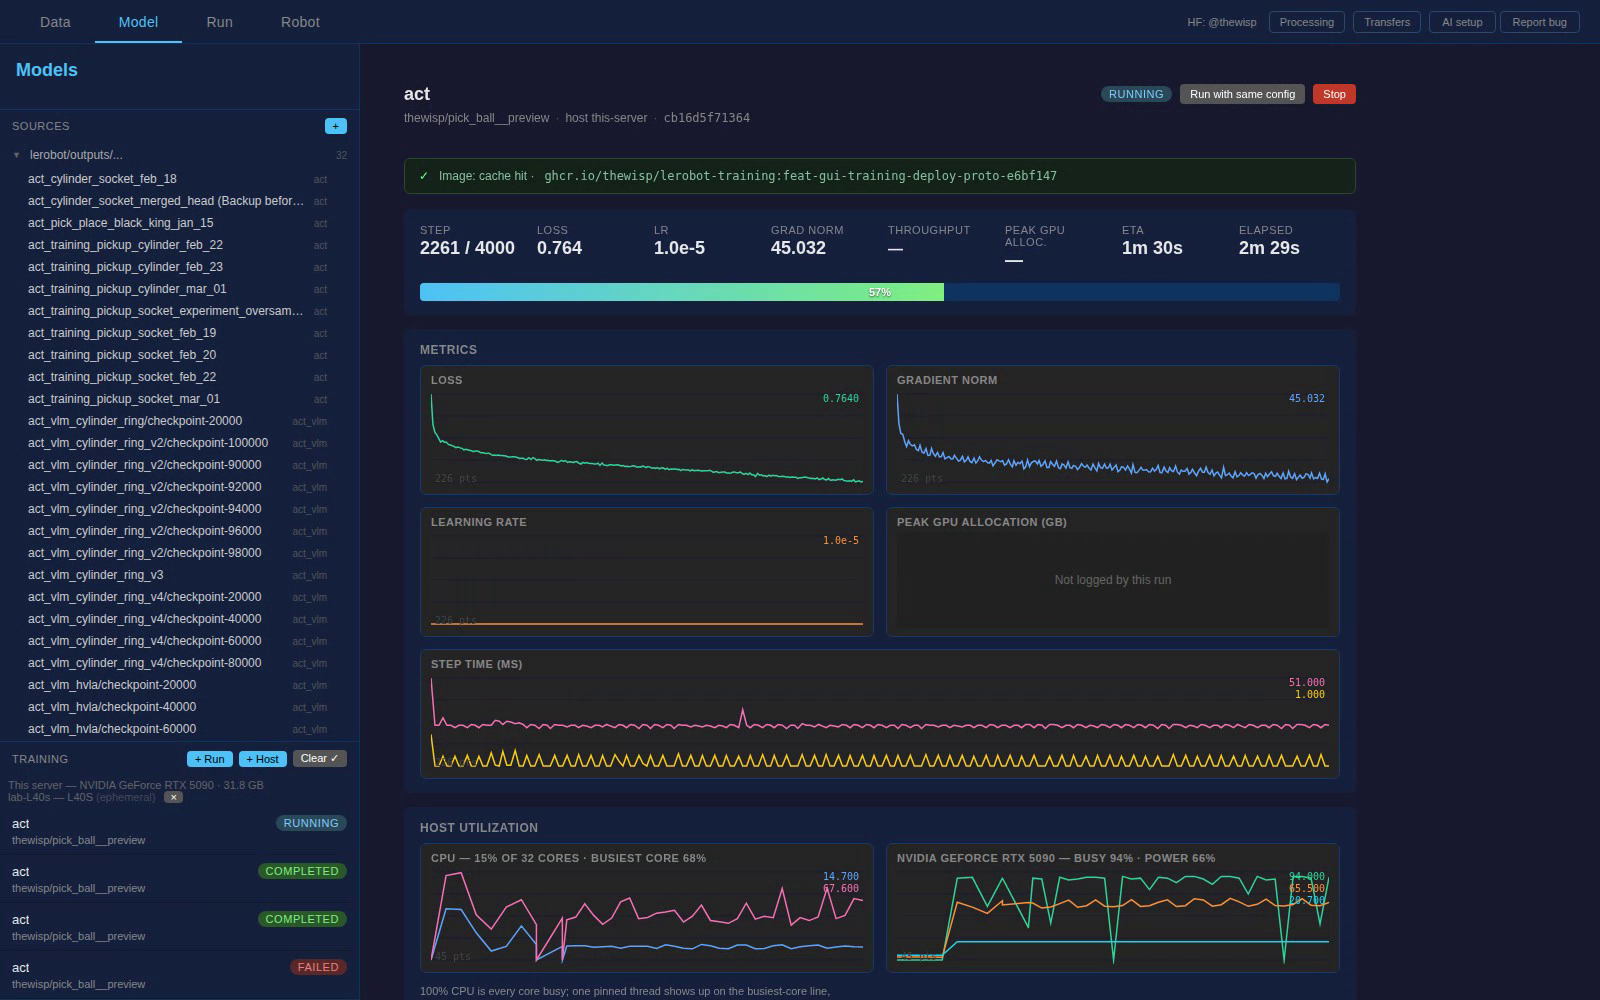
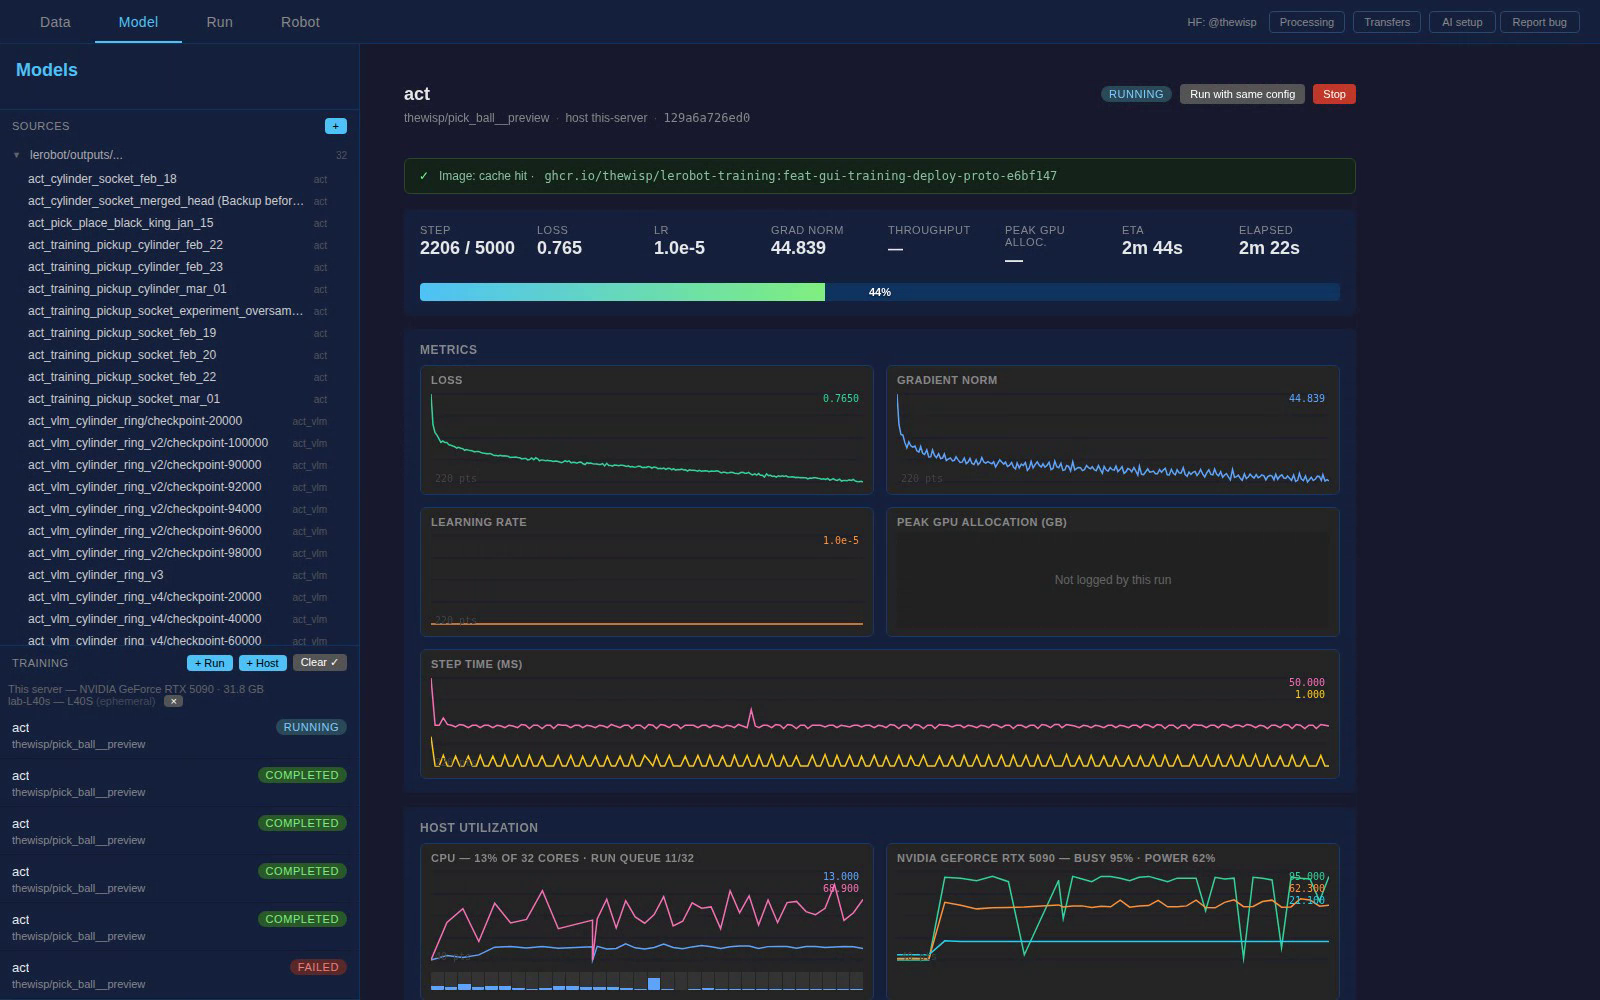
fix(gui): report host utilization as the host's, and show CPU the way CPU tools do
Review caught the claim this feature could not support: nothing in it knows
whether the hot core belongs to the training run. `/proc/stat` and `nvidia-smi`
both report the whole machine, so a compile, a browser, or a second job counts
toward every figure here. The caption nonetheless said "one pinned dataloader
thread shows up on the busiest-core line", which asserts an attribution the
measurement cannot make.

Three changes, one of them structural.

**Say whose numbers these are.** The card now leads with "whole machine, not
this run", and notes that on a dedicated box the distinction is empty while on
a shared one these are an upper bound. The module docstring records what real
attribution would cost: reading the training container's own cgroup `cpu.stat`,
which needs a container id the recipe does not currently produce — it passes
neither `--name` nor `--cidfile` — and a cgroup path that differs between
docker's cgroupfs and systemd drivers. Worth doing; not done here, and now
written down rather than implied away.

**Show every core, not the hottest one.** A single "busiest core" figure is a
shape no CPU tool uses: htop draws a bar per core, top splits an aggregate by
mode, mpstat prints a per-core table, and W&B logs `cpu` alongside
`cpu.N.cpu_percent`. Summarising 32 cores into their maximum is what invited
reading that maximum as this run's thread. The strip under the chart is one
slot per core, filled to its utilization — a pinned thread is still obvious as
[…]

diff --git a/src/lerobot/gui/static/training.js b/src/lerobot/gui/static/training.js
@@ -981,12 +981,42 @@ function trainingResourcesCardHtml(resources, isActive) {
   const hotNow = trainingLatestResource(resources, "busiest_core_pct");
   const gpus = trainingGpuIndices(resources);
 
+  // The most recent row that actually carries a CPU reading, not simply the
+  // most recent row: a sample taken too soon after the last one reports no CPU
+  // by design, and reading it blindly made the bars vanish for a poll.
+  const withCores =
+    [...resources].reverse().find((row) => (row.per_core_pct || []).length) || {};
+  const perCore = withCores.per_core_pct || [];
+  const runnable = Number((resources[resources.length - 1] || {}).runnable);
+  // One bar per core, the way htop, mpstat and top all show this. A single
+  // "busiest core" number was the wrong shape: it invites reading the hot core
+  // as *this run's* thread, which a host-wide sample cannot establish. The
+  // distribution makes the same bottleneck visible without the claim -- one
+  // tall bar among short ones is a pinned thread, whoever owns it.
+  const coreBars = perCore.length
+    ? `<div class="training-core-strip" title="One bar per core, over the last sample. Machine-wide: any process counts.">
+         ${perCore
+           .map(
+             (pct) =>
+               `<i style="--fill:${Math.round(pct)}%" title="core ${Math.round(pct)}%"></i>`,
+           )
+           .join("")}
+       </div>`
+    : "";
+  // Saturation, not utilization: how many tasks want a CPU right now. Over the
+  // core count means work is queued behind a busy CPU. `procs_running` rather
+  // than load average, which folds in uninterruptible I/O waiters -- the reason
+  // the USE checklist excludes it for CPU.
+  const queue = Number.isFinite(runnable)
+    ? `<span class="training-muted" title="Runnable tasks (vmstat 'r'). Above the core count means tasks are queued for a CPU — the saturation signal, as opposed to how busy the cores have been.">· run queue ${runnable}/${cores || "?"}</span>`
+    : "";
+
   const cpuCard = `<div class="training-chart">
       <div class="training-chart-title">
-        CPU — ${trainingPctText(cpuNow)} of ${cores || "?"} cores
-        <span class="training-muted" title="One pinned dataloader thread reads near 100% here while the all-core average stays low.">· busiest core ${trainingPctText(hotNow)}</span>
+        CPU — ${trainingPctText(cpuNow)} of ${cores || "?"} cores ${queue}
       </div>
       <canvas id="training-res-cpu" class="training-chart-canvas"></canvas>
+      ${coreBars}
     </div>`;
 
   const gpuCards = gpus.map((index) => {
@@ -1006,11 +1036,16 @@ function trainingResourcesCardHtml(resources, isActive) {
       <h3 class="training-card-heading">Host utilization</h3>
       <div class="training-charts">${cpuCard}${gpuCards.join("")}</div>
       <div class="training-resource-note">
-        100% CPU is every core busy; one pinned thread shows up on the busiest-core line, not the average.
-        GPU <strong>busy</strong> is the share of the sample period with a kernel resident — a kernel occupying
-        one multiprocessor still reads 100%, and it drops to 0 whenever a sample lands between kernels, so
-        it is spiky even mid-training. <strong>Power</strong> against the board limit is the steadier read on
-        whether the card is actually working hard.
+        <strong>Whole machine, not this run.</strong> Every figure here is the host's, so anything else running
+        counts too. On a box dedicated to training they are the same number; on a shared one, read them as an
+        upper bound.
+        100% CPU is every core busy. The bars are one core each: one tall bar among short ones is a
+        single-threaded bottleneck — a pinned dataloader looks like that, and so does anything else pinning a
+        core. The run queue is the saturation figure; above the core count, tasks are waiting for a CPU.
+        GPU <strong>busy</strong> is the share of the sample period with a kernel resident: a kernel occupying
+        one multiprocessor still reads 100%, and it drops to 0 whenever a sample lands between kernels, so it
+        is spiky even mid-training. <strong>Power</strong> against the board limit is the steadier read on
+        whether the card is working hard.
       </div>
     </section>`;
 }

diff --git a/src/lerobot/gui/static/style.css b/src/lerobot/gui/static/style.css
@@ -2272,3 +2272,26 @@ body.ovl-click-armed .obs-cam-grid > div { box-shadow: inset 0 0 0 1px rgba(79, 
     color: var(--text-tertiary, #8a8a8a);
     max-width: 70ch;
 }
+
+/* Per-core utilization, htop's idiom: one bar per core, tallest = busiest.
+   Shows the distribution rather than a summary of it, so a single pinned core
+   is visible without asserting whose thread is on it. */
+.training-core-strip {
+    display: flex;
+    align-items: flex-end;
+    gap: 1px;
+    height: 22px;
+    margin-top: 6px;
+    padding: 2px 0;
+}
+/* Each core gets a visible slot, so an idle core reads as "a core, idle"
+   rather than as absent — the same reason htop brackets every core. */
+.training-core-strip i {
+    flex: 1 1 auto;
+    min-width: 2px;
+    align-self: stretch;
+    background:
+        linear-gradient(to top, #60a5fa var(--fill, 0%), #f472b6 var(--fill, 0%),
+                        rgba(255, 255, 255, 0.07) var(--fill, 0%));
+    border-radius: 1px;
+}

diff --git a/src/lerobot/gui/static/index.html b/src/lerobot/gui/static/index.html
@@ -5,7 +5,7 @@
     <meta name="viewport" content="width=device-width, initial-scale=1.0">
     <title>LeRobot GUI</title>
     <script>document.title = `LeRobot GUI [${window.location.host}]`;</script>
-    <link rel="stylesheet" href="/static/style.css?v=78">
+    <link rel="stylesheet" href="/static/style.css?v=80">
 </head>
 <body>
     <div class="tab-bar">
@@ -713,7 +713,7 @@ nebius iam auth-public-key generate \
     <script src="/static/overlays.js?v=74"></script>
     <script src="/static/model.js?v=9"></script>
     <script src="/static/training_image_identity.js?v=1"></script>
-    <script src="/static/training.js?v=38"></script>
+    <script src="/static/training.js?v=41"></script>
     <script src="/static/add_host_dialog.js?v=4"></script>
     <script src="/static/bug_report.js?v=1"></script>
     <script src="/static/bridge.js?v=1"></script>

diff --git a/src/lerobot/gui/training/resources.py b/src/lerobot/gui/training/resources.py
@@ -29,12 +29,25 @@ since boot; a single read says how busy the machine has been *since it booted*,
 which is never what anyone wants. Utilization only exists between two reads, so
 :func:`cpu_percent_between` takes both and the caller keeps the previous one.
 
+**Everything here is the host's, not the run's.** ``/proc/stat`` and
+``nvidia-smi`` both report the whole machine, so a second training job, a
+compile, or a browser counts toward these numbers. On a dedicated training box
+that distinction is empty; on a shared one these are an upper bound on what the
+run is using, and nothing here can tell the difference.
+
+Attributing CPU to the run itself would mean reading the training container's
+own cgroup (``cpu.stat``), which needs the container id — the recipe does not
+name the container or write a cidfile today — and a cgroup path that differs
+between docker's cgroupfs and systemd drivers. Worth doing; not done here, and
+the UI says so rather than implying an attribution it cannot make.
+
 **CPU is reported twice, and the second number is the useful one.** The
 aggregate is normalized across cores — 100% means every core is busy, which is
-what "saturated" has to mean when there are 32 of them. But the classic training
-bottleneck is a single-threaded dataloader pinning one core while the rest idle,
-and on a 32-core box that reads as 3% aggregate: indistinguishable from an idle
-machine. ``busiest_core_pct`` is what makes that visible.
+what "saturated" has to mean when there are 32 of them. But a single-threaded
+bottleneck — the classic being a dataloader pinning one core while the rest
+idle — reads as 3% aggregate on a 32-core box, indistinguishable from an idle
+machine. ``busiest_core_pct`` is what makes *some* thread being pinned visible.
+Which thread it is, this cannot say.
 
 **GPU "busy" is not GPU "saturated", and this module does not pretend
 otherwise.** NVML defines ``utilization.gpu`` as the percent of time in the
@@ -127,6 +140,10 @@ class CpuTotals:
     total: tuple[int, int]  # (busy, total) jiffies
     per_core: tuple[tuple[int, int], ...]
     ts: float = 0.0
+    # Runnable tasks at the instant of the read (``procs_running``). This is
+    # vmstat's ``r`` — the saturation half of the USE method, and not a delta:
+    # it is a queue depth, meaningful from a single reading.
+    runnable: int = 0
 
 
 @dataclass(frozen=True)
@@ -142,6 +159,14 @@ class ResourceSample:
     cpu_pct: float | None
     busiest_core_pct: float | None
     cpu_cores: int
+    # Every core's utilization over the interval, in core order. The whole
+    # distribution rather than a summary of it: one bar per core is how htop,
+    # mpstat and every other tool shows this, and it is the only form that
+    # cannot be misread as a claim about *which* thread is hot.
+    per_core_pct: list[float] = field(default_factory=list)
+    # Runnable tasks vs cores. Over 1.0 means work is queued for a CPU that is
+    # not free — CPU saturation proper, as distinct from utilization.
+    runnable: int = 0
     gpus: list[GpuSample] = field(default_factory=list)
 
     def to_row(self) -> dict:
@@ -152,6 +177,8 @@ class ResourceSample:
             "cpu_pct": None if self.cpu_pct is None else round(self.cpu_pct, 1),
             "busiest_core_pct": (None if self.busiest_core_pct is None else round(self.busiest_core_pct, 1)),
             "cpu_cores": self.cpu_cores,
+            "per_core_pct": [round(v, 1) for v in self.per_core_pct],
+            "runnable": self.runnable,
             "gpus": [
                 {
                     **{k: v for k, v in asdict(g).items() if k != "name"},
@@ -178,7 +205,18 @@ def parse_proc_stat(text: str, *, ts: float = 0.0) -> CpuTotals | None:
     """
     total: tuple[int, int] | None = None
     cores: list[tuple[int, tuple[int, int]]] = []
+    runnable = 0
     for line in text.splitlines():
+        # The same file carries the run queue: `procs_running` is vmstat's `r`,
+        # which is the CPU *saturation* metric — how many tasks want a CPU right
+        # now, as opposed to how busy the CPUs have been. Not `/proc/loadavg`:
+        # Linux load averages fold in uninterruptible I/O waiters, which is why
+        # the USE checklist excludes them for CPU.
+        if line.startswith("procs_running"):
+            parts = line.split()
+            if len(parts) >= 2 and parts[1].isdigit():
+                runnable = int(parts[1])
+            continue
         if not line.startswith("cpu"):
             continue
         parts = line.split()
@@ -200,7 +238,7 @@ def parse_proc_stat(text: str, *, ts: float = 0.0) -> CpuTotals | None:
     if total is None or total[1] <= 0:
         return None
     cores.sort()
-    return CpuTotals(total=total, per_core=tuple(p for _, p in cores), ts=ts)
+    return CpuTotals(total=total, per_core=tuple(p for _, p in cores), ts=ts, runnable=runnable)
 
 
 def _delta_percent(before: tuple[int, int], after: tuple[int, int]) -> float | None:
@@ -217,8 +255,10 @@ def _delta_percent(before: tuple[int, int], after: tuple[int, int]) -> float | N
     return max(0.0, min(100.0, 100.0 * busy / total))
 
 
-def cpu_percent_between(before: CpuTotals, after: CpuTotals) -> tuple[float | None, float | None]:
-    """``(aggregate_pct, busiest_core_pct)`` over the interval between reads.
+def cpu_percent_between(
+    before: CpuTotals, after: CpuTotals
+) -> tuple[float | None, float | None, list[float]]:
+    """``(aggregate_pct, busiest_core_pct, per_core_pct)`` over the interval.
 
     Pre: both readings come from the same machine, ``after`` taken later.
     Post: each value is either None (no interval elapsed) or in [0, 100].
@@ -234,7 +274,7 @@ def cpu_percent_between(before: CpuTotals, after: CpuTotals) -> tuple[float | No
         for b, a in zip(before.per_core, after.per_core, strict=False)
         if (pct := _delta_percent(b, a)) is not None
     ]
-    return aggregate, (max(per_core) if per_core else None)
+    return aggregate, (max(per_core) if per_core else None), per_core
 
 
 def parse_nvidia_smi_csv(text: str) -> list[GpuSample]:
@@ -329,12 +369,13 @@ def sample_from_probe(
     totals = parse_proc_stat(stat_text, ts=now)
     cpu_pct: float | None = None
     busiest: float | None = None
+    per_core: list[float] = []
     if previous is not None and totals is not None:
         # Too short an interval is worse than no reading: it is a reading that
         # looks real. Keep the older baseline so the next poll measures from a
         # sensible distance rather than restarting the clock each time.
         if now - previous.ts >= MIN_SAMPLE_INTERVAL_S:
-            cpu_pct, busiest = cpu_percent_between(previous, totals)
+            cpu_pct, busiest, per_core = cpu_percent_between(previous, totals)
         else:
             totals = previous
     return (
@@ -343,6 +384,8 @@ def sample_from_probe(
             cpu_pct=cpu_pct,
             busiest_core_pct=busiest,
             cpu_cores=len(totals.per_core) if totals else 0,
+            per_core_pct=per_core,
+            runnable=totals.runnable if totals else 0,
             gpus=parse_nvidia_smi_csv(gpu_text),
         ),
         totals,

diff --git a/tests/gui/training/test_resources.py b/tests/gui/training/test_resources.py
@@ -53,14 +53,14 @@ class TestCpuIsADeltaNotAnInstant:
         before = parse_proc_stat(_stat((100, 0, 100), [(100, 0, 100)]))
         # 75 busy jiffies out of 100 elapsed.
         after = parse_proc_stat(_stat((175, 0, 125), [(175, 0, 125)]))
-        aggregate, _ = cpu_percent_between(before, after)
+        aggregate, _, _ = cpu_percent_between(before, after)
         assert aggregate == 75.0
 
     def test_counters_that_did_not_advance_report_nothing_rather_than_idle(self):
         """Two identical reads mean no interval was observed. Reporting 0% would
         claim the machine was idle when in fact nothing was measured."""
         same = parse_proc_stat(_stat((100, 0, 100), [(100, 0, 100)]))
-        aggregate, busiest = cpu_percent_between(same, same)
+        aggregate, busiest, _ = cpu_percent_between(same, same)
         assert aggregate is None
         assert busiest is None
 
@@ -71,7 +71,7 @@ class TestCpuIsADeltaNotAnInstant:
         before = parse_proc_stat("cpu  100 0 0 100 0 0 0 0 0 0\ncpu0 100 0 0 100 0 0 0 0 0 0\n")
         # 100 jiffies elapsed, all of them in iowait.
         after = parse_proc_stat("cpu  100 0 0 100 100 0 0 0 0 0\ncpu0 100 0 0 100 100 0 0 0 0\n")
-        aggregate, _ = cpu_percent_between(before, after)
+        aggregate, _, _ = cpu_percent_between(before, after)
         assert aggregate == 0.0
 
 
@@ -87,7 +87,7 @@ class TestOnePinnedCoreIsVisible:
         after_cores[7] = (100, 0, 100)
         after = parse_proc_stat(_stat((100, 0, 6300), after_cores))
 
-        aggregate, busiest = cpu_percent_between(before, after)
+        aggregate, busiest, _ = cpu_percent_between(before, after)
 
         assert aggregate is not None and aggregate < 5, "one of 32 cores is a small average"
         assert busiest == 100.0, "the busiest-core line is what makes the bottleneck visible"
@@ -95,7 +95,7 @@ class TestOnePinnedCoreIsVisible:
     def test_a_genuinely_saturated_machine_reads_100(self):
         before = parse_proc_stat(_stat((0, 0, 400), [(0, 0, 100)] * 4))
         after = parse_proc_stat(_stat((400, 0, 400), [(100, 0, 100)] * 4))
-        aggregate, busiest = cpu_percent_between(before, after)
+        aggregate, busiest, _ = cpu_percent_between(before, after)
         assert aggregate == 100.0
         assert busiest == 100.0
 
@@ -222,3 +222,40 @@ class TestAnIntervalTooShortToMeasure:
 
         assert sample.cpu_pct is None
         assert sample.gpus and sample.gpus[0].power_pct > 75
+
+
+class TestSaturationIsNotUtilization:
+    """Gregg's USE checklist treats CPU the way this module treats the GPU: how
+    busy a resource has been is a different question from whether work is queued
+    behind it. `procs_running` is vmstat's `r`, the saturation half."""
+
+    def test_the_run_queue_is_read_from_the_same_file(self):
+        text = (
+            _stat((100, 0, 100), [(100, 0, 100)] * 4)
+            + "procs_running 9\nprocs_blocked 2\n"
+            + SECTION_SEPARATOR
+        )
+        totals = parse_proc_stat(text)
+        assert totals is not None and totals.runnable == 9
+
+    def test_a_queue_deeper_than_the_cores_is_what_oversubscribed_looks_like(self):
+        """Four cores, nine tasks wanting one: fully utilized *and* saturated,
+        which utilization alone cannot distinguish from merely fully utilized."""
+        before = parse_proc_stat(_stat((0, 0, 400), [(0, 0, 100)] * 4) + "procs_running 1\n", ts=1.0)
+        after = parse_proc_stat(_stat((400, 0, 400), [(100, 0, 100)] * 4) + "procs_running 9\n", ts=3.0)
+        aggregate, _, _ = cpu_percent_between(before, after)
+        assert aggregate == 100.0
+        assert after.runnable > len(after.per_core)
+
+    def test_the_whole_per_core_distribution_survives_to_the_row(self):
+        """The UI draws a bar per core. A summary could not show the shape, and a
+        'busiest core' number invites reading the hot core as this run's thread."""
+        before = parse_proc_stat(_stat((0, 0, 400), [(0, 0, 100)] * 4))
+        after_cores = [(0, 0, 200)] * 4
+        after_cores[2] = (100, 0, 100)
+        after = parse_proc_stat(_stat((100, 0, 700), after_cores))
+
+        _, busiest, per_core = cpu_percent_between(before, after)
+
+        assert per_core == [0.0, 0.0, 100.0, 0.0]
+        assert busiest == 100.0
